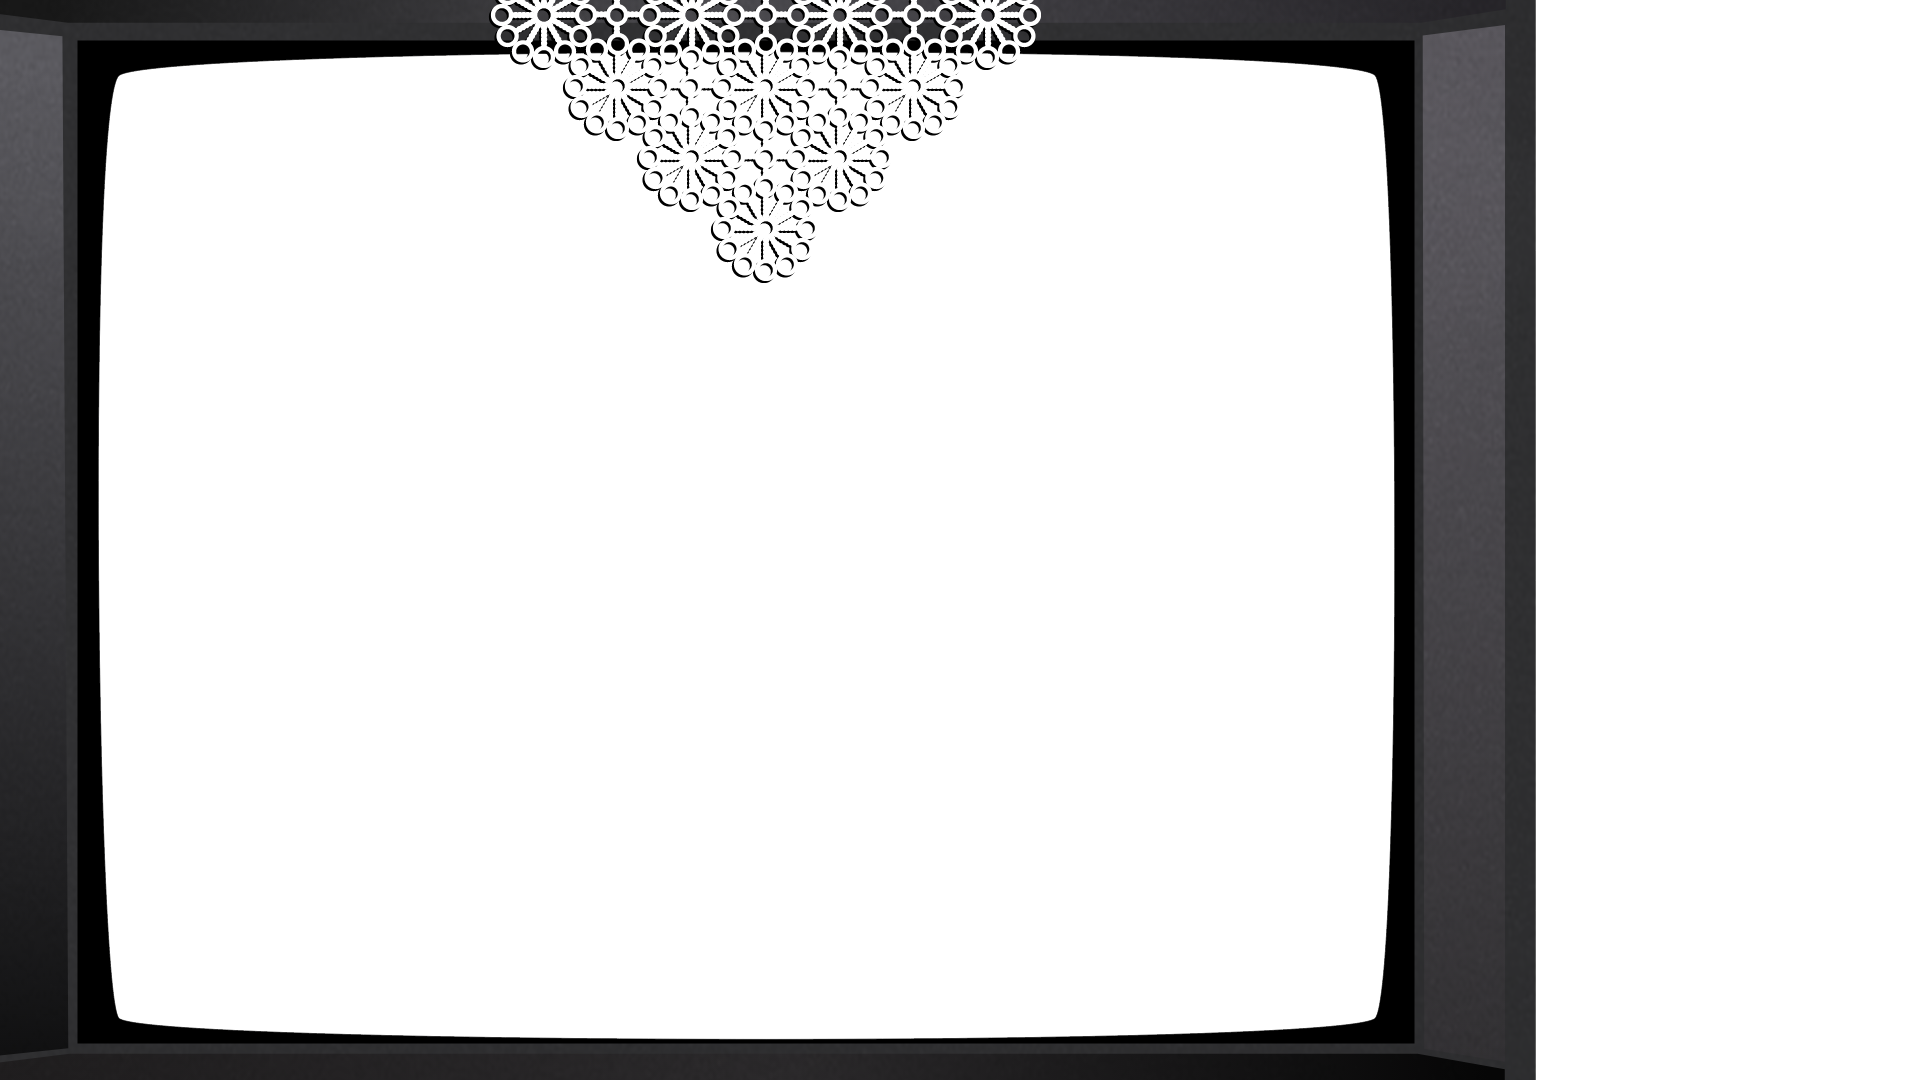
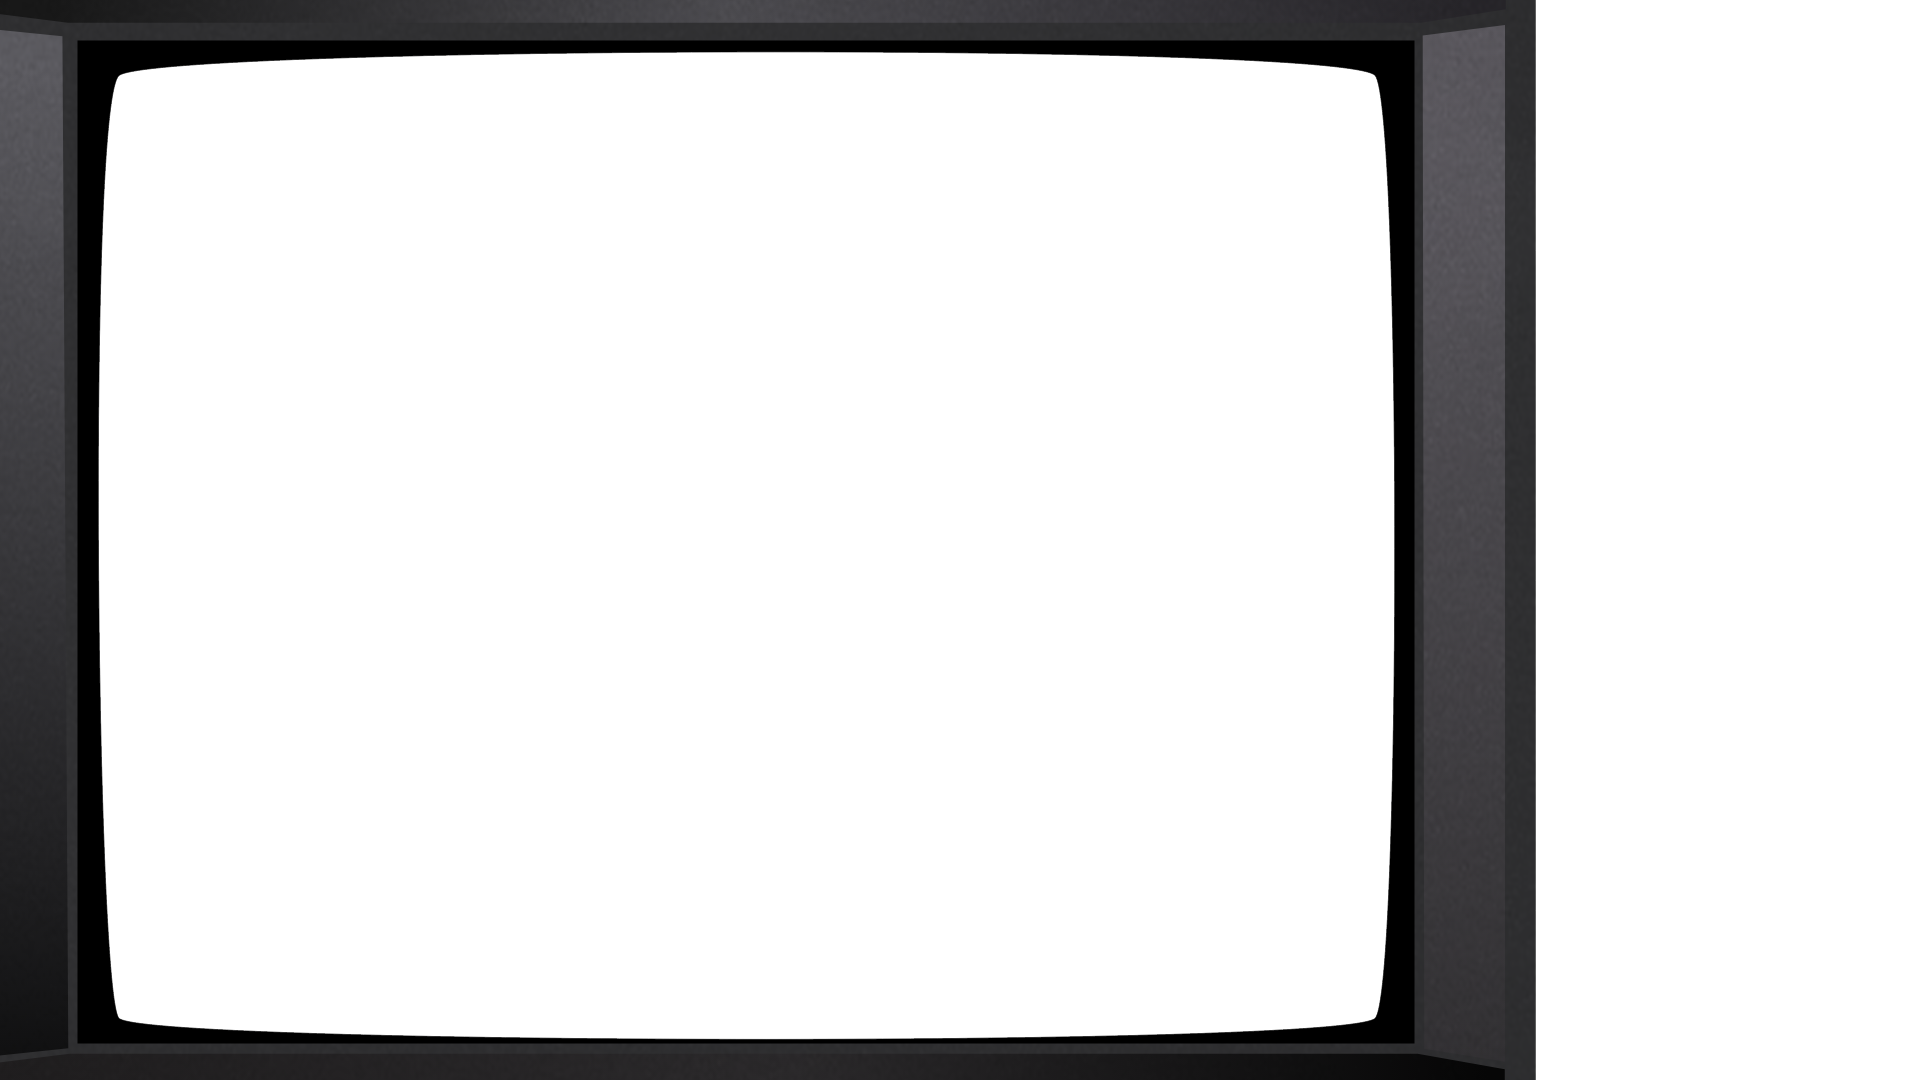
dantels inferno

Changed region(s): [[0.25, 0.0, 0.5625, 0.275]]

diff --git a/Assets/Scripts/TestMainScript.cs b/Assets/Scripts/TestMainScript.cs
@@ -41,11 +41,24 @@ namespace DefaultNamespace
             UIDocument.rootVisualElement.style.marginRight = (Constants.UiWidth-1920f) * 0.5f;
             Application.targetFrameRate = 60;
 
-            var frame = new VisualElement();
-            frame.style.width = 1920f;
-            frame.style.height = 1080f;
-            frame.style.position = Position.Absolute;
-            frame.style.backgroundImage = QuickAccess.LoadSpriteBg("ui/tv");
+            var frame = new TVScreen();
+            frame.ButtonAction = () =>
+            {
+                TweenHolder.NewTween(1f,duringAction: alpha =>
+                {
+                    
+                    
+                    frame.UpDown(1f-alpha);
+                },exitAction: () =>
+                {
+                    frame.DisableButton(false);
+                    frame.GoinDown = !frame.GoinDown;
+                });
+                frame.DisableButton(true);
+                
+
+            };
+            
 
             _bubbleLayer = new VisualElement();
             _bubbleLayer.StretchToParentSize();
@@ -61,7 +74,7 @@ namespace DefaultNamespace
             
             
             jukebox.ayyuzlu.Play();
-            _nothingWaiter = true;
+            //_nothingWaiter = true;
         }
 
 
@@ -222,6 +235,7 @@ namespace DefaultNamespace
         {
             if (_nothingWaiter)
             {
+                
                 _nothingTimer += Time.deltaTime;
 
                 if (_nothingTimer >= _nothingTrigger)

diff --git a/Assets/Scripts/ui/TVScreen.cs b/Assets/Scripts/ui/TVScreen.cs
@@ -1,0 +1,51 @@
+using System;
+using Punity.ui;
+using UnityEngine;
+using UnityEngine.UIElements;
+
+namespace DefaultNamespace
+{
+    public class TVScreen : VisualElement
+    {
+
+        private ButtonClickable _dantel;
+        public Action ButtonAction = () => { };
+        public bool GoinDown = true;
+
+        public TVScreen()
+        {
+            style.width = 1920f;
+            style.height = 1080f;
+            style.position = Position.Absolute;
+            style.backgroundImage = QuickAccess.LoadSpriteBg("ui/tv");
+
+
+            _dantel = new ButtonClickable("ui/credits", Color.gray, ButtonFunction);
+            _dantel.style.position = Position.Absolute;
+            _dantel.style.top = -300f;
+            _dantel.style.left = 477f;
+
+
+            Add(_dantel);
+        }
+
+
+        private void ButtonFunction()
+        {
+            ButtonAction();
+        }
+
+        public void UpDown(float alpha)
+        {
+            _dantel.style.top = -300f * (GoinDown ? alpha : (1f-alpha));
+        }
+        
+        
+
+        public void DisableButton(bool b)
+        {
+            _dantel.Disable(b);
+
+        }
+    }
+}
